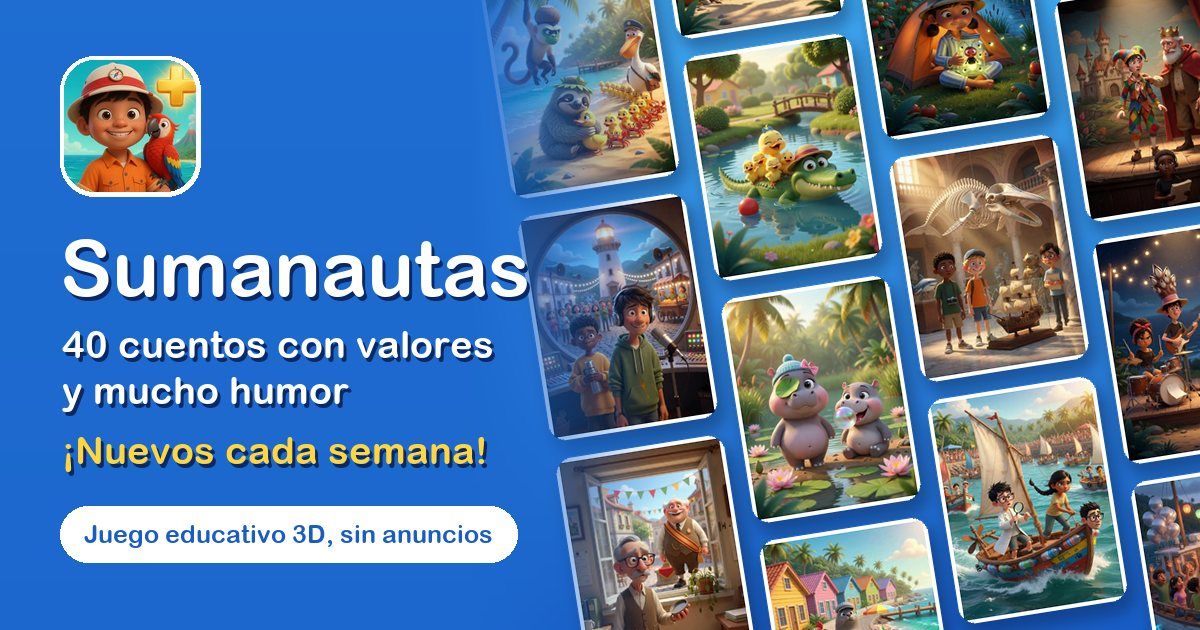
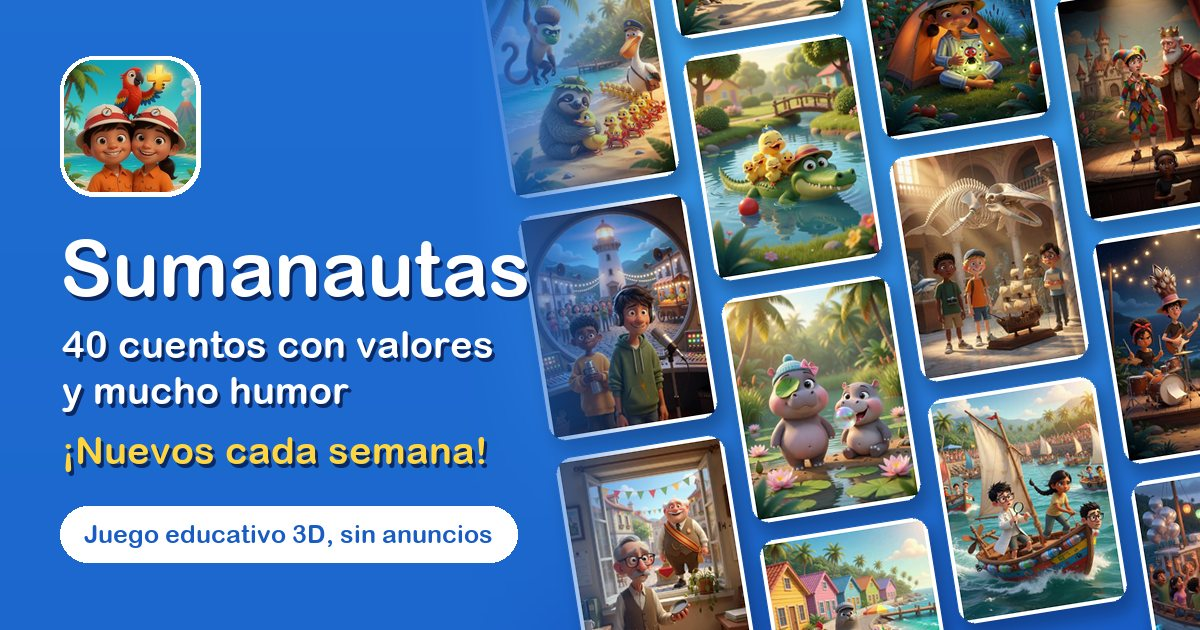
Web: banderitas en ES/EN (España y Reino Unido) y el icono nuevo (el niño y la niña con Pico) en la portada, la pestaña y al compartir

Changed region(s): [[0.0308, 0.0905, 0.185, 0.3016]]

diff --git a/index.html b/index.html
@@ -13,7 +13,7 @@
 <meta property="og:url" content="https://mizen87.github.io/sumanautas-libros/">
 <meta property="og:title" content="Sumanautas · 40 cuentos y una aventura en 3D para aprender">
 <meta property="og:description" content="40 cuentos con valores y humor, narrados en español e inglés, y una aventura en 3D donde aprendes mates, robótica, música e inglés sin darte cuenta. Sin anuncios.">
-<meta property="og:image" content="https://mizen87.github.io/sumanautas-libros/web/og.jpg?v=d52c37f8">
+<meta property="og:image" content="https://mizen87.github.io/sumanautas-libros/web/og.jpg?v=5658492d">
 <meta property="og:image:width" content="1200">
 <meta property="og:image:height" content="630">
 <meta property="og:image:alt" content="Portadas de los cuentos de Sumanautas">
@@ -22,7 +22,7 @@
 <meta name="twitter:card" content="summary_large_image">
 <meta name="twitter:title" content="Sumanautas · 40 cuentos y una aventura en 3D para aprender">
 <meta name="twitter:description" content="40 cuentos con valores y humor, narrados en español e inglés, y una aventura en 3D donde aprendes mates, robótica, música e inglés sin darte cuenta. Sin anuncios.">
-<meta name="twitter:image" content="https://mizen87.github.io/sumanautas-libros/web/og.jpg?v=d52c37f8">
+<meta name="twitter:image" content="https://mizen87.github.io/sumanautas-libros/web/og.jpg?v=5658492d">
 <link rel="icon" type="image/png" sizes="64x64" href="web/favicon.png">
 <link rel="apple-touch-icon" href="web/icono-180.png">
 <style>
@@ -69,6 +69,8 @@ button { font: inherit; }
 .idioma { display: inline-flex; background: rgba(255, 255, 255, .22); border-radius: 999px; padding: 3px; flex: none; }
 .idioma button { border: 0; background: transparent; color: #fff; font: 900 14px/1 var(--f-titulo); min-width: 44px; min-height: 36px; padding: 0 12px; border-radius: 999px; cursor: pointer; }
 .idioma button[aria-pressed="true"] { background: #fff; color: var(--cielo-osc); }
+.idioma button { display: inline-flex; align-items: center; gap: 6px; }   /* [21-oct, él: «pon una banderita en ES / EN para que sea más fácil verlo»] */
+.idioma .bandera { width: 20px; height: 14px; border-radius: 3px; box-shadow: 0 0 0 1px rgba(0, 0, 0, .18); flex: none; }
 
 .heroe { display: grid; grid-template-columns: 1.15fr .85fr; gap: 28px; align-items: center; padding: 22px 0 8px; }
 .icono-grande { width: 96px; height: 96px; border-radius: 24px; box-shadow: 0 8px 22px rgba(8, 30, 80, .35); border: 3px solid rgba(255, 255, 255, .85); }
@@ -228,8 +230,8 @@ html[lang="en"] .trozo::after { content: "…\201D"; }
       <a class="marca" href="./"><img src="web/icono.jpg" width="38" height="38" alt="">Sumanautas</a>
       <a class="web" href="https://jucabime.com">jucabime.com</a>
       <div class="idioma" role="group" aria-label="Idioma" data-en-aria="Language">
-        <button type="button" data-idioma="es" aria-pressed="true" lang="es" title="Español">ES</button>
-        <button type="button" data-idioma="en" aria-pressed="false" lang="en" title="English">EN</button>
+        <button type="button" data-idioma="es" aria-pressed="true" lang="es" title="Español"><img class="bandera" src="web/bandera_es.png" alt="" width="20" height="14">ES</button>
+        <button type="button" data-idioma="en" aria-pressed="false" lang="en" title="English"><img class="bandera" src="web/bandera_gb.png" alt="" width="20" height="14">EN</button>
       </div>
     </nav>
     <div class="heroe">

diff --git a/lector.html b/lector.html
@@ -11,12 +11,12 @@
 <meta property="og:site_name" content="Sumanautas">
 <meta property="og:title" content="Cuentos de Sumanautas">
 <meta property="og:description" content="Lee y escucha los cuentos de Sumanautas con sus dibujos, en español y en inglés.">
-<meta property="og:image" content="https://mizen87.github.io/sumanautas-libros/web/og.jpg?v=d52c37f8">
+<meta property="og:image" content="https://mizen87.github.io/sumanautas-libros/web/og.jpg?v=5658492d">
 <meta property="og:image:width" content="1200">
 <meta property="og:image:height" content="630">
 <meta property="og:locale" content="es_ES">
 <meta name="twitter:card" content="summary_large_image">
-<meta name="twitter:image" content="https://mizen87.github.io/sumanautas-libros/web/og.jpg?v=d52c37f8">
+<meta name="twitter:image" content="https://mizen87.github.io/sumanautas-libros/web/og.jpg?v=5658492d">
 <link rel="icon" type="image/png" sizes="64x64" href="web/favicon.png">
 <link rel="apple-touch-icon" href="web/icono-180.png">
 <style>
@@ -52,6 +52,8 @@ button { font: inherit; }
 .idioma { flex: none; display: inline-flex; background: rgba(255, 255, 255, .22); border-radius: 999px; padding: 3px; }
 .idioma button { border: 0; background: transparent; color: #fff; font: 900 14px/1 var(--f-titulo); min-width: 40px; min-height: 34px; padding: 0 10px; border-radius: 999px; cursor: pointer; }
 .idioma button[aria-pressed="true"] { background: #fff; color: var(--cielo-osc); }
+.idioma button { display: inline-flex; align-items: center; gap: 6px; }   /* [21-oct, él: «pon una banderita en ES / EN para que sea más fácil verlo»] */
+.idioma .bandera { width: 20px; height: 14px; border-radius: 3px; box-shadow: 0 0 0 1px rgba(0, 0, 0, .18); flex: none; }
 
 /* ── las hojas ── */
 .hojas { flex: 1; min-height: 0; display: flex; overflow-x: auto; overflow-y: hidden; scroll-snap-type: x mandatory; overscroll-behavior-x: contain; scrollbar-width: none; }
@@ -120,8 +122,8 @@ button { font: inherit; }
   <a class="volver" href="./"><span aria-hidden="true">←</span><img src="web/icono.jpg" width="26" height="26" alt=""><span class="t">Biblioteca</span></a>
   <p class="ltitulo" id="ltitulo">Sumanautas</p>
   <div class="idioma" role="group" aria-label="Idioma">
-    <button type="button" data-idioma="es" aria-pressed="true" lang="es" title="Español">ES</button>
-    <button type="button" data-idioma="en" aria-pressed="false" lang="en" title="English">EN</button>
+    <button type="button" data-idioma="es" aria-pressed="true" lang="es" title="Español"><img class="bandera" src="web/bandera_es.png" alt="" width="20" height="14">ES</button>
+    <button type="button" data-idioma="en" aria-pressed="false" lang="en" title="English"><img class="bandera" src="web/bandera_gb.png" alt="" width="20" height="14">EN</button>
   </div>
 </header>
 <main class="hojas" id="hojas"><div class="aviso"><p>Cargando el cuento…</p></div></main>

diff --git a/web/estilo.css b/web/estilo.css
@@ -41,6 +41,8 @@ button { font: inherit; }
 .idioma { display: inline-flex; background: rgba(255, 255, 255, .22); border-radius: 999px; padding: 3px; flex: none; }
 .idioma button { border: 0; background: transparent; color: #fff; font: 900 14px/1 var(--f-titulo); min-width: 44px; min-height: 36px; padding: 0 12px; border-radius: 999px; cursor: pointer; }
 .idioma button[aria-pressed="true"] { background: #fff; color: var(--cielo-osc); }
+.idioma button { display: inline-flex; align-items: center; gap: 6px; }   /* [21-oct, él: «pon una banderita en ES / EN para que sea más fácil verlo»] */
+.idioma .bandera { width: 20px; height: 14px; border-radius: 3px; box-shadow: 0 0 0 1px rgba(0, 0, 0, .18); flex: none; }
 
 .heroe { display: grid; grid-template-columns: 1.15fr .85fr; gap: 28px; align-items: center; padding: 22px 0 8px; }
 .icono-grande { width: 96px; height: 96px; border-radius: 24px; box-shadow: 0 8px 22px rgba(8, 30, 80, .35); border: 3px solid rgba(255, 255, 255, .85); }

diff --git a/web/lector.css b/web/lector.css
@@ -30,6 +30,8 @@ button { font: inherit; }
 .idioma { flex: none; display: inline-flex; background: rgba(255, 255, 255, .22); border-radius: 999px; padding: 3px; }
 .idioma button { border: 0; background: transparent; color: #fff; font: 900 14px/1 var(--f-titulo); min-width: 40px; min-height: 34px; padding: 0 10px; border-radius: 999px; cursor: pointer; }
 .idioma button[aria-pressed="true"] { background: #fff; color: var(--cielo-osc); }
+.idioma button { display: inline-flex; align-items: center; gap: 6px; }   /* [21-oct, él: «pon una banderita en ES / EN para que sea más fácil verlo»] */
+.idioma .bandera { width: 20px; height: 14px; border-radius: 3px; box-shadow: 0 0 0 1px rgba(0, 0, 0, .18); flex: none; }
 
 /* ── las hojas ── */
 .hojas { flex: 1; min-height: 0; display: flex; overflow-x: auto; overflow-y: hidden; scroll-snap-type: x mandatory; overscroll-behavior-x: contain; scrollbar-width: none; }

diff --git a/web/genera_web.py b/web/genera_web.py
@@ -412,8 +412,8 @@ def pagina(libros, actualizado):
       <a class="marca" href="./"><img src="web/icono.jpg" width="38" height="38" alt="">Sumanautas</a>
       <a class="web" href="{JUCABIME}">jucabime.com</a>
       <div class="idioma" role="group" aria-label="Idioma" data-en-aria="Language">
-        <button type="button" data-idioma="es" aria-pressed="true" lang="es" title="Español">ES</button>
-        <button type="button" data-idioma="en" aria-pressed="false" lang="en" title="English">EN</button>
+        <button type="button" data-idioma="es" aria-pressed="true" lang="es" title="Español"><img class="bandera" src="web/bandera_es.png" alt="" width="20" height="14">ES</button>
+        <button type="button" data-idioma="en" aria-pressed="false" lang="en" title="English"><img class="bandera" src="web/bandera_gb.png" alt="" width="20" height="14">EN</button>
       </div>
     </nav>
     <div class="heroe">
@@ -514,8 +514,8 @@ def lector_html():
   <a class="volver" href="./"><span aria-hidden="true">←</span><img src="web/icono.jpg" width="26" height="26" alt=""><span class="t">Biblioteca</span></a>
   <p class="ltitulo" id="ltitulo">Sumanautas</p>
   <div class="idioma" role="group" aria-label="Idioma">
-    <button type="button" data-idioma="es" aria-pressed="true" lang="es" title="Español">ES</button>
-    <button type="button" data-idioma="en" aria-pressed="false" lang="en" title="English">EN</button>
+    <button type="button" data-idioma="es" aria-pressed="true" lang="es" title="Español"><img class="bandera" src="web/bandera_es.png" alt="" width="20" height="14">ES</button>
+    <button type="button" data-idioma="en" aria-pressed="false" lang="en" title="English"><img class="bandera" src="web/bandera_gb.png" alt="" width="20" height="14">EN</button>
   </div>
 </header>
 <main class="hojas" id="hojas"><div class="aviso"><p>Cargando el cuento…</p></div></main>
